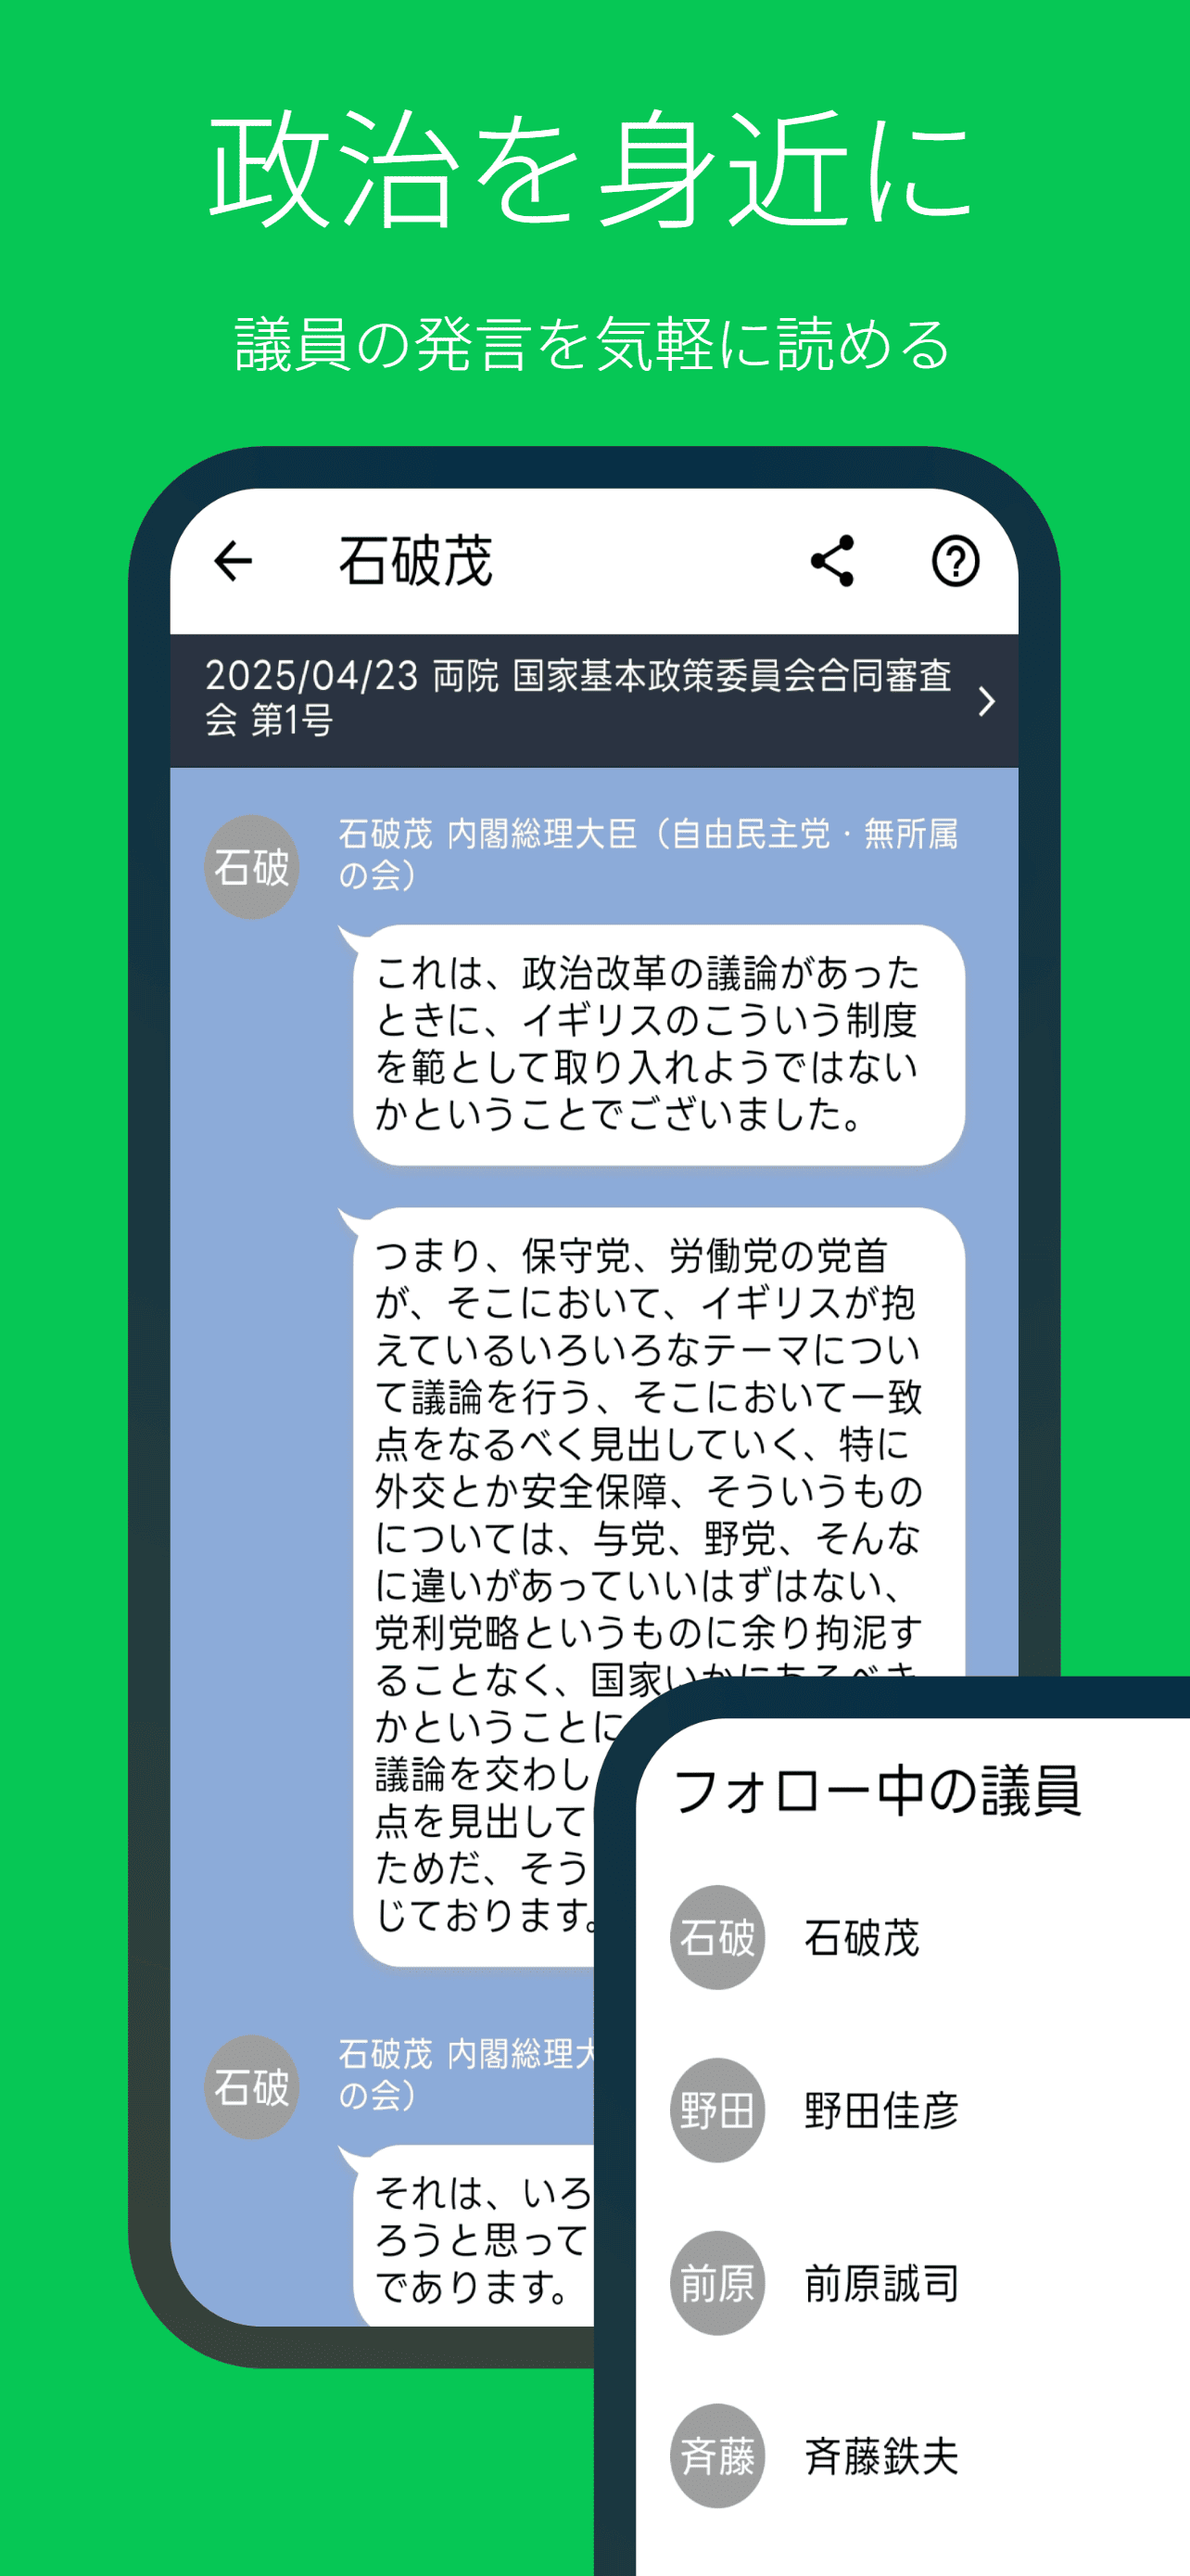
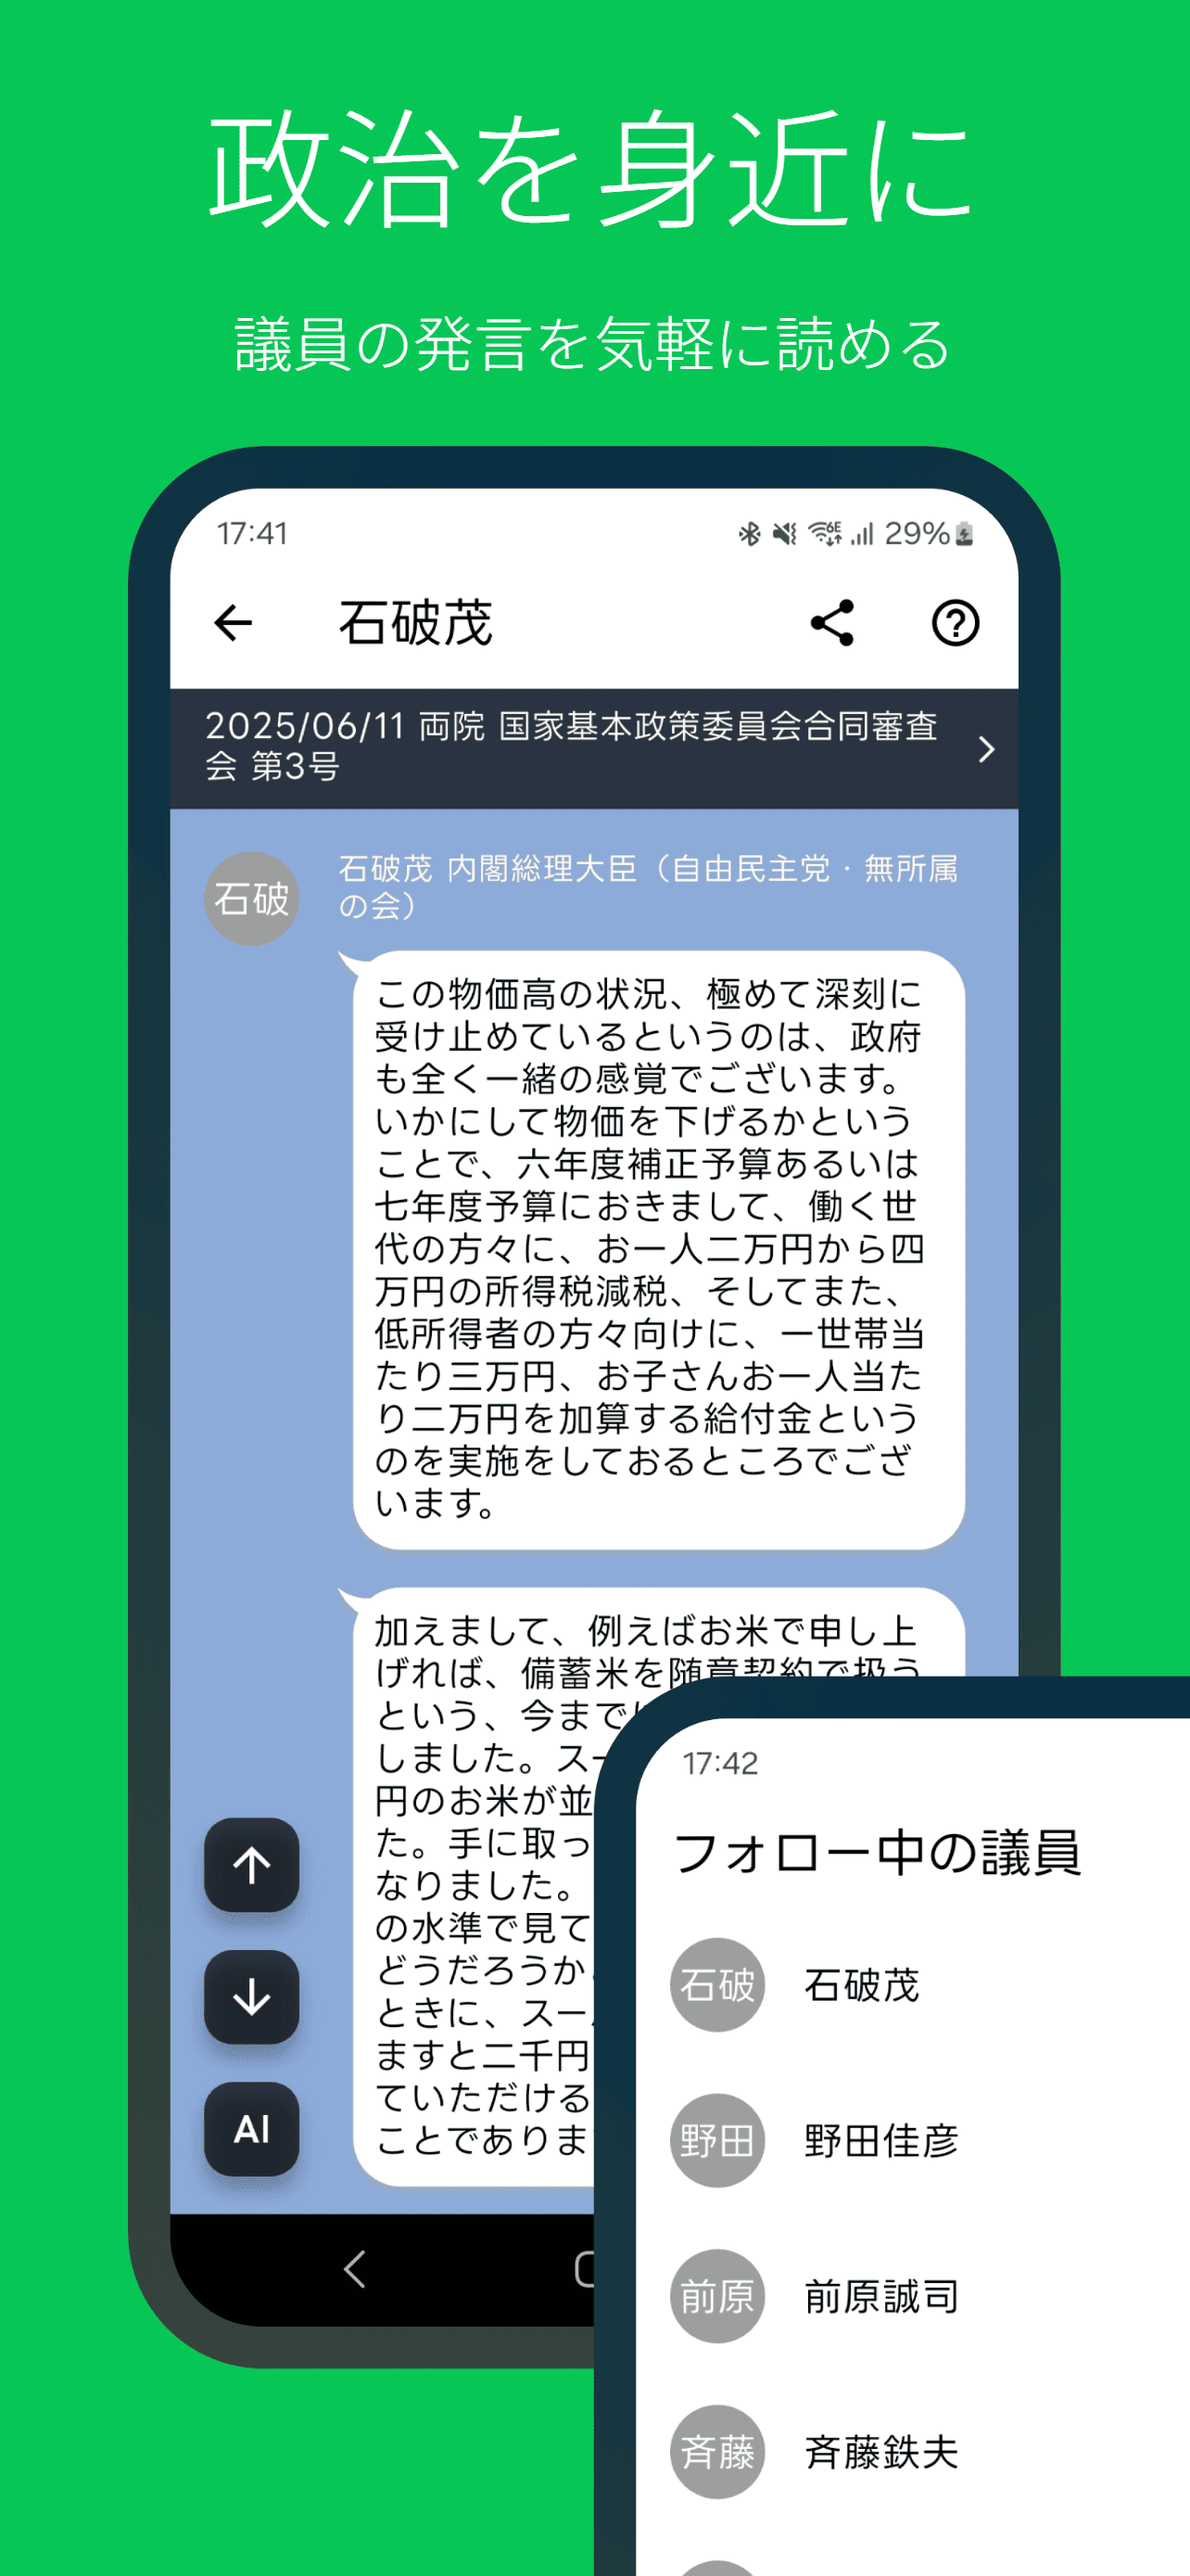
スクリーンショット更新

diff --git a/giin/index.html b/giin/index.html
@@ -119,6 +119,11 @@
                 <img class="img-fluid" src="img/screenshot/img-4.png" alt="">
               </div>
             </div>
+            <div class="item">
+              <div class="screenshot-thumb">
+                <img class="img-fluid" src="img/screenshot/img-5.png" alt="">
+              </div>
+            </div>
           </div>
         </div>
       </div>
